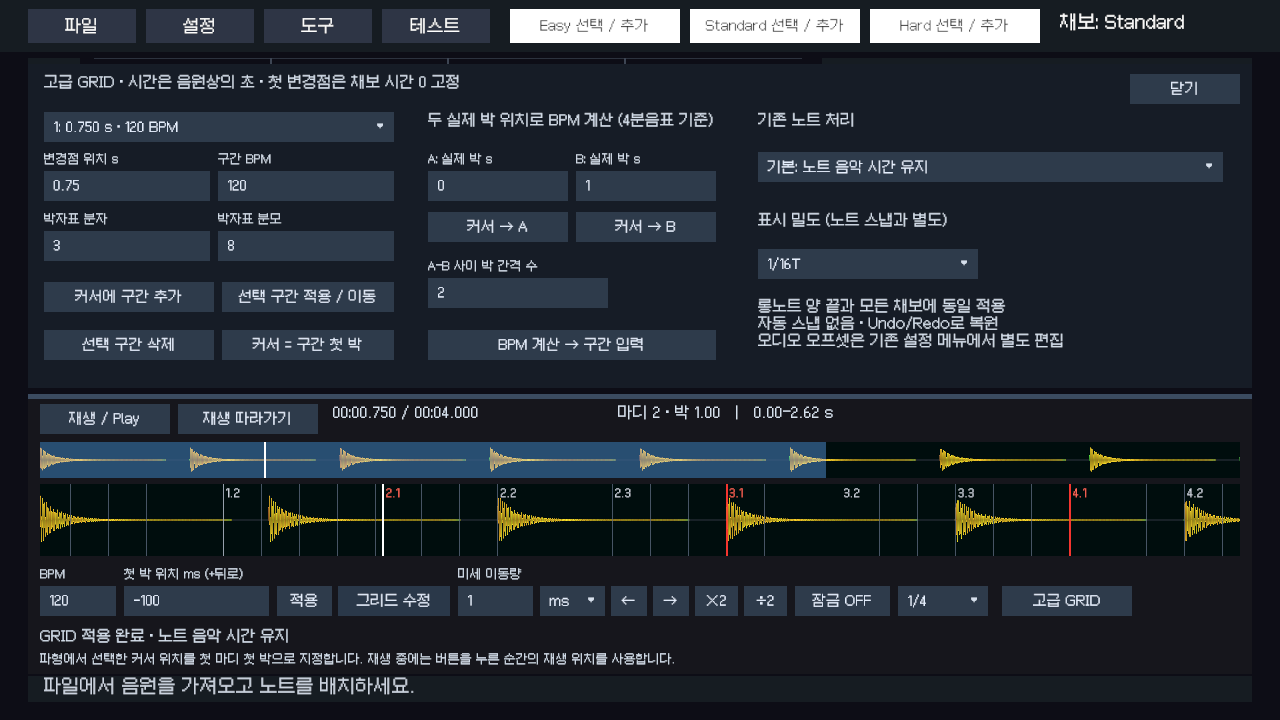
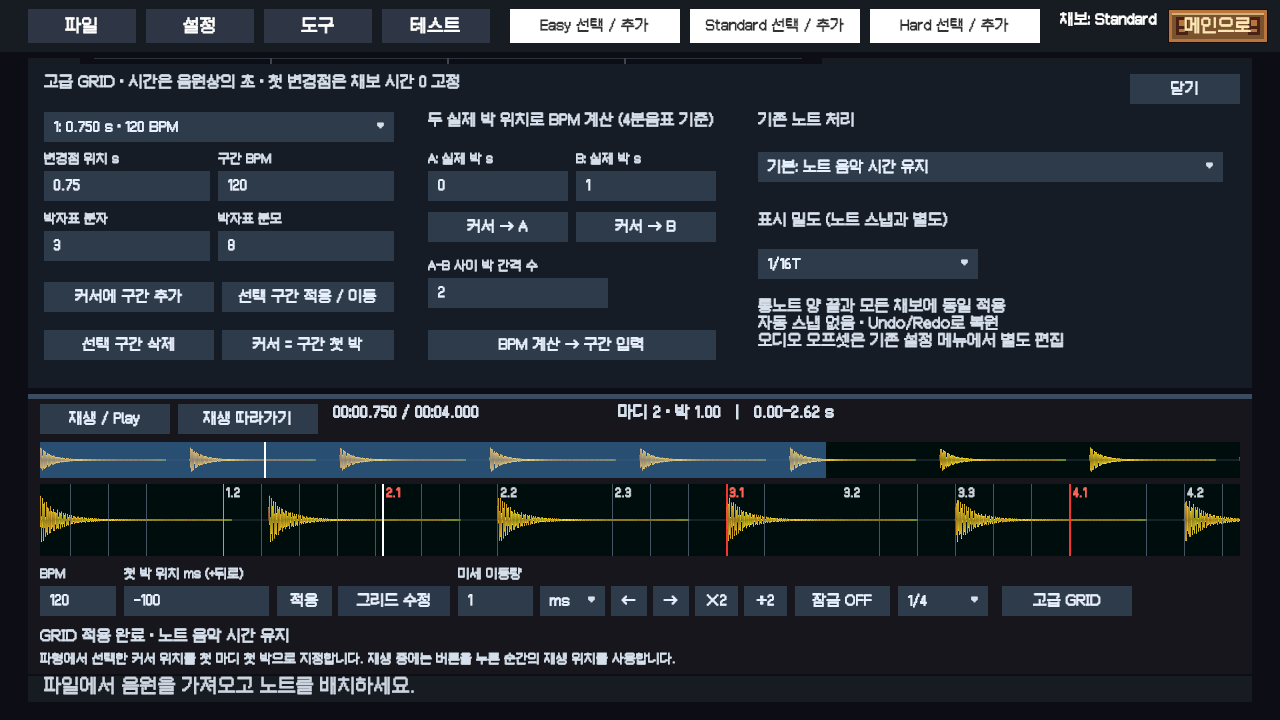
Keep chart editor labels smooth
- 채보 에디터에서는 Noto Sans KR을 유지하고, 파형·그리드·도구 UI의 글자에 부드러운 렌더링을 적용합니다.
- 저장·취소·닫기 이후 화면 전환 요청의 반환값을 의도적으로 버리도록 표시합니다.
- 타임라인·채보 에디터 테스트가 실제 키보드·마우스에 영향받지 않게 하고, 기존 추적 중인 타임라인 검증 화면을 갱신합니다.
- ON AIR 및 프로젝트 탐색 기능은 이미 열린 PR #13의 범위입니다. 이 브랜치는 그 커밋을 포함하지 않습니다.

diff --git a/Assets/Game/Tests/PlayMode/WorkspaceEditorTests.cs b/Assets/Game/Tests/PlayMode/WorkspaceEditorTests.cs
@@ -32,6 +32,8 @@ namespace RhythmDojo.Tests
         private InputSettings.EditorInputBehaviorInPlayMode editorBehavior;
         private InputSettings.BackgroundBehavior backgroundBehavior;
 
+        private NativeInputScope nativeInput;
+
         [UnitySetUp]
         public IEnumerator SetUp()
         {
@@ -40,6 +42,7 @@ namespace RhythmDojo.Tests
             backgroundBehavior = input.backgroundBehavior;
             input.editorInputBehaviorInPlayMode = InputSettings.EditorInputBehaviorInPlayMode.AllDeviceInputAlwaysGoesToGameView;
             input.backgroundBehavior = InputSettings.BackgroundBehavior.IgnoreFocus;
+            nativeInput = new NativeInputScope();
             mouse = InputSystem.AddDevice<Mouse>();
             mouse.MakeCurrent();
             keyboard = InputSystem.AddDevice<Keyboard>();
@@ -66,6 +69,8 @@ namespace RhythmDojo.Tests
                 InputSystem.RemoveDevice(keyboard);
             }
 
+            nativeInput?.Dispose();
+            nativeInput = null;
             input.editorInputBehaviorInPlayMode = editorBehavior;
             input.backgroundBehavior = backgroundBehavior;
             yield return SceneManager.LoadSceneAsync(AppFlowController.SelectionPath);
@@ -933,11 +938,20 @@ namespace RhythmDojo.Tests
         public IEnumerator LeftToolIconsSelectDrawEraseAndGrabWithVisibleSelection()
         {
             var bindings = workspace.view.toolActions;
-            Assert.That(bindings.Select(item => item.action), Is.EqualTo(new[]
+            var expected = new System.Collections.Generic.List<WorkspaceAction>
             {
-                WorkspaceAction.Select, WorkspaceAction.Pencil, WorkspaceAction.Eraser, WorkspaceAction.Position,
-                WorkspaceAction.Scroll
-            }));
+                WorkspaceAction.Select,
+                WorkspaceAction.Pencil,
+                WorkspaceAction.Eraser,
+                WorkspaceAction.Position,
+                WorkspaceAction.Scroll,
+            };
+            if (System.Enum.TryParse("OnAir", out WorkspaceAction onAir))
+            {
+                expected.Add(onAir);
+            }
+
+            Assert.That(bindings.Select(item => item.action), Is.EqualTo(expected));
             foreach (var binding in bindings)
             {
                 var icon = binding.button.GetComponentInChildren<WorkspaceToolIcon>();

diff --git a/Assets/Game/Scripts/Runtime/Authoring/WorkspaceEditor.cs b/Assets/Game/Scripts/Runtime/Authoring/WorkspaceEditor.cs
@@ -643,7 +643,7 @@ namespace RhythmDojo.Authoring
 
                 if (action == WorkspaceAction.DiscardExit)
                 {
-                    SceneManager.LoadSceneAsync("Assets/Game/Scenes/Title.unity");
+                    _ = SceneManager.LoadSceneAsync("Assets/Game/Scenes/Title.unity");
                     return;
                 }
 
@@ -829,12 +829,12 @@ namespace RhythmDojo.Authoring
                     }
                     else
                     {
-                        SceneManager.LoadSceneAsync("Assets/Game/Scenes/Title.unity");
+                        _ = SceneManager.LoadSceneAsync("Assets/Game/Scenes/Title.unity");
                     }
                     break;
                 case WorkspaceAction.SaveExit:
                     await Save();
-                    SceneManager.LoadSceneAsync("Assets/Game/Scenes/Title.unity");
+                    _ = SceneManager.LoadSceneAsync("Assets/Game/Scenes/Title.unity");
                     break;
                 case WorkspaceAction.ApplySettings:
                     double bpm = Number(view.bpm);

diff --git a/Assets/Game/Tests/PlayMode/AudioTimelineTests.cs b/Assets/Game/Tests/PlayMode/AudioTimelineTests.cs
@@ -23,6 +23,21 @@ namespace RhythmDojo.Tests
     [PostBuildCleanup(typeof(TestRunStartup))]
     public sealed class AudioTimelineTests
     {
+        private NativeInputScope nativeInput;
+
+        [SetUp]
+        public void IsolateInput()
+        {
+            nativeInput = new NativeInputScope();
+        }
+
+        [TearDown]
+        public void RestoreInput()
+        {
+            nativeInput?.Dispose();
+            nativeInput = null;
+        }
+
         [UnityTest]
         public IEnumerator GridScrollsAndPansToNegativeTenMeasureWithMeterAndOriginChanges()
         {

diff --git a/Assets/Game/Tests/PlayMode/ChartEditorScreenTests.cs b/Assets/Game/Tests/PlayMode/ChartEditorScreenTests.cs
@@ -16,6 +16,21 @@ namespace RhythmDojo.Tests
     [PostBuildCleanup(typeof(TestRunStartup))]
     public sealed class ChartEditorScreenTests
     {
+        private NativeInputScope nativeInput;
+
+        [SetUp]
+        public void IsolateInput()
+        {
+            nativeInput = new NativeInputScope();
+        }
+
+        [TearDown]
+        public void RestoreInput()
+        {
+            nativeInput?.Dispose();
+            nativeInput = null;
+        }
+
         [UnityTest]
         public IEnumerator MouseClicksAddUniqueBeatNotesAndRightClickRemovesThem()
         {

diff --git a/Assets/Game/Scripts/Editor/SceneGeneration/ChartEditorSceneBuilder.cs b/Assets/Game/Scripts/Editor/SceneGeneration/ChartEditorSceneBuilder.cs
@@ -64,6 +64,7 @@ namespace RhythmDojo.EditorTools
             var fontScope = canvas.gameObject.AddComponent<UiFontScope>();
             fontScope.font = SceneResources.Require<Font>("Assets/Game/Fonts/NotoSansKR-Regular.otf");
             fontScope.style = FontStyle.Normal;
+            fontScope.useSmoothRendering = true;
             var scaler = canvas.GetComponent<CanvasScaler>();
             scaler.screenMatchMode = CanvasScaler.ScreenMatchMode.MatchWidthOrHeight;
             scaler.matchWidthOrHeight = 0;
